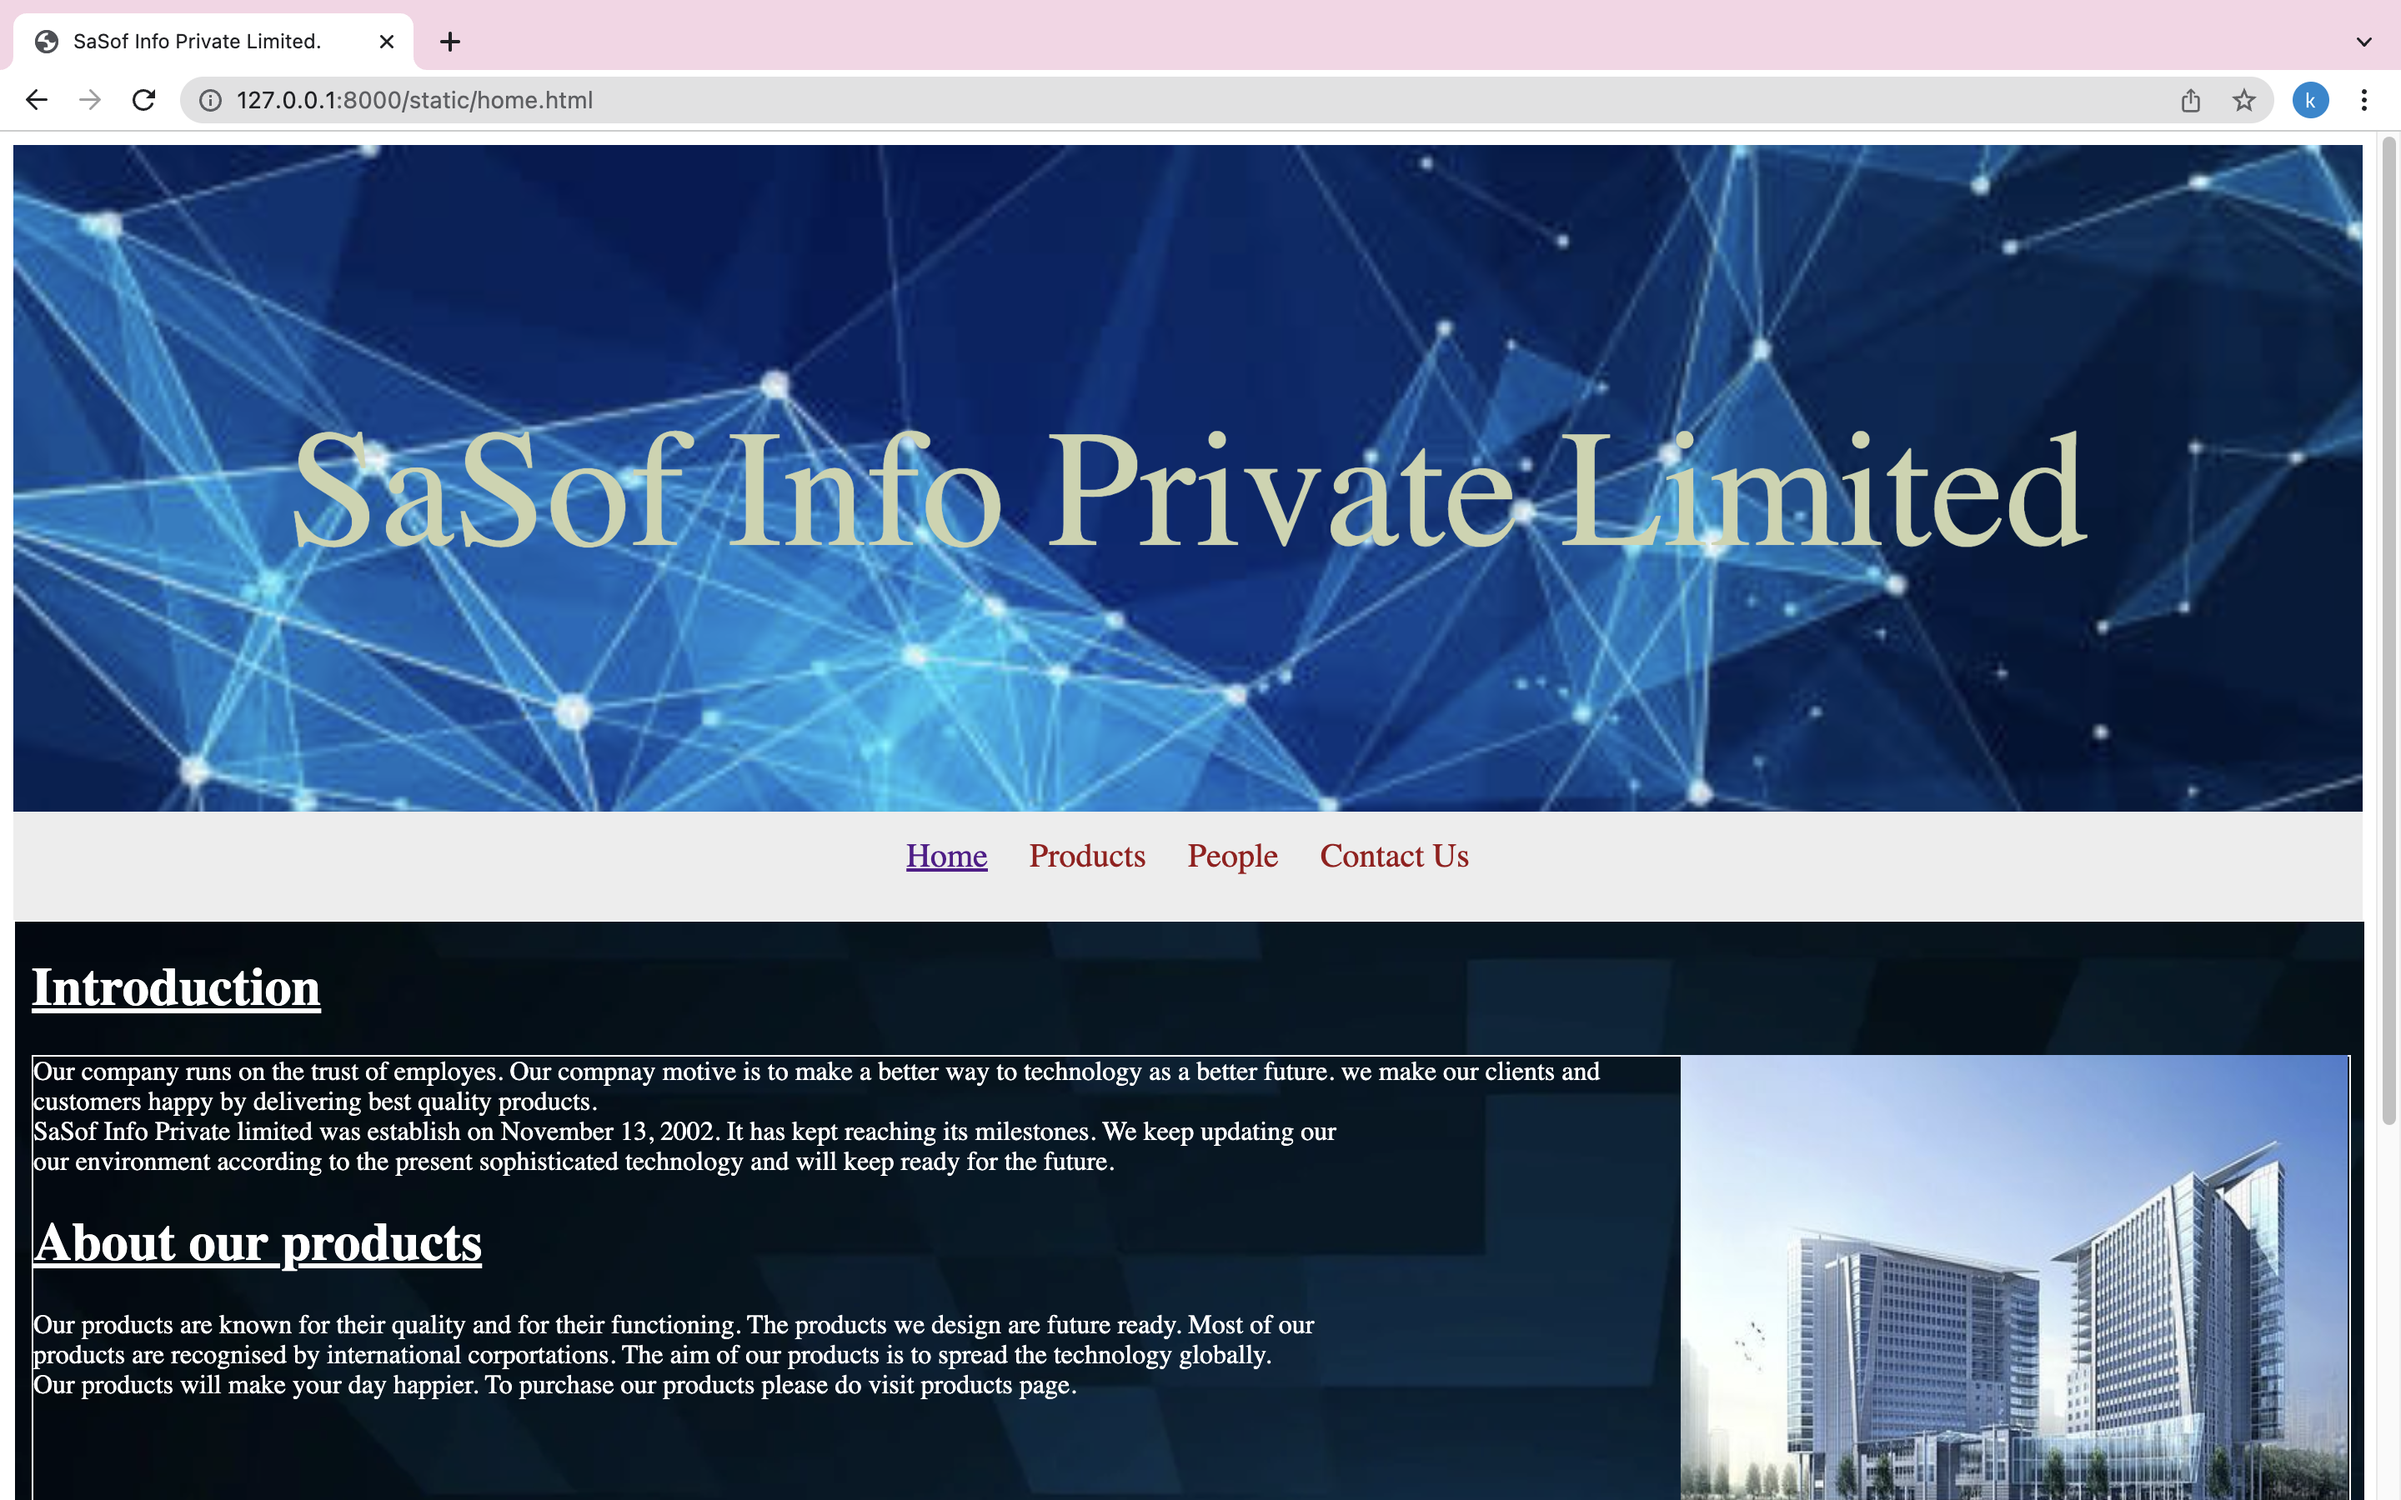
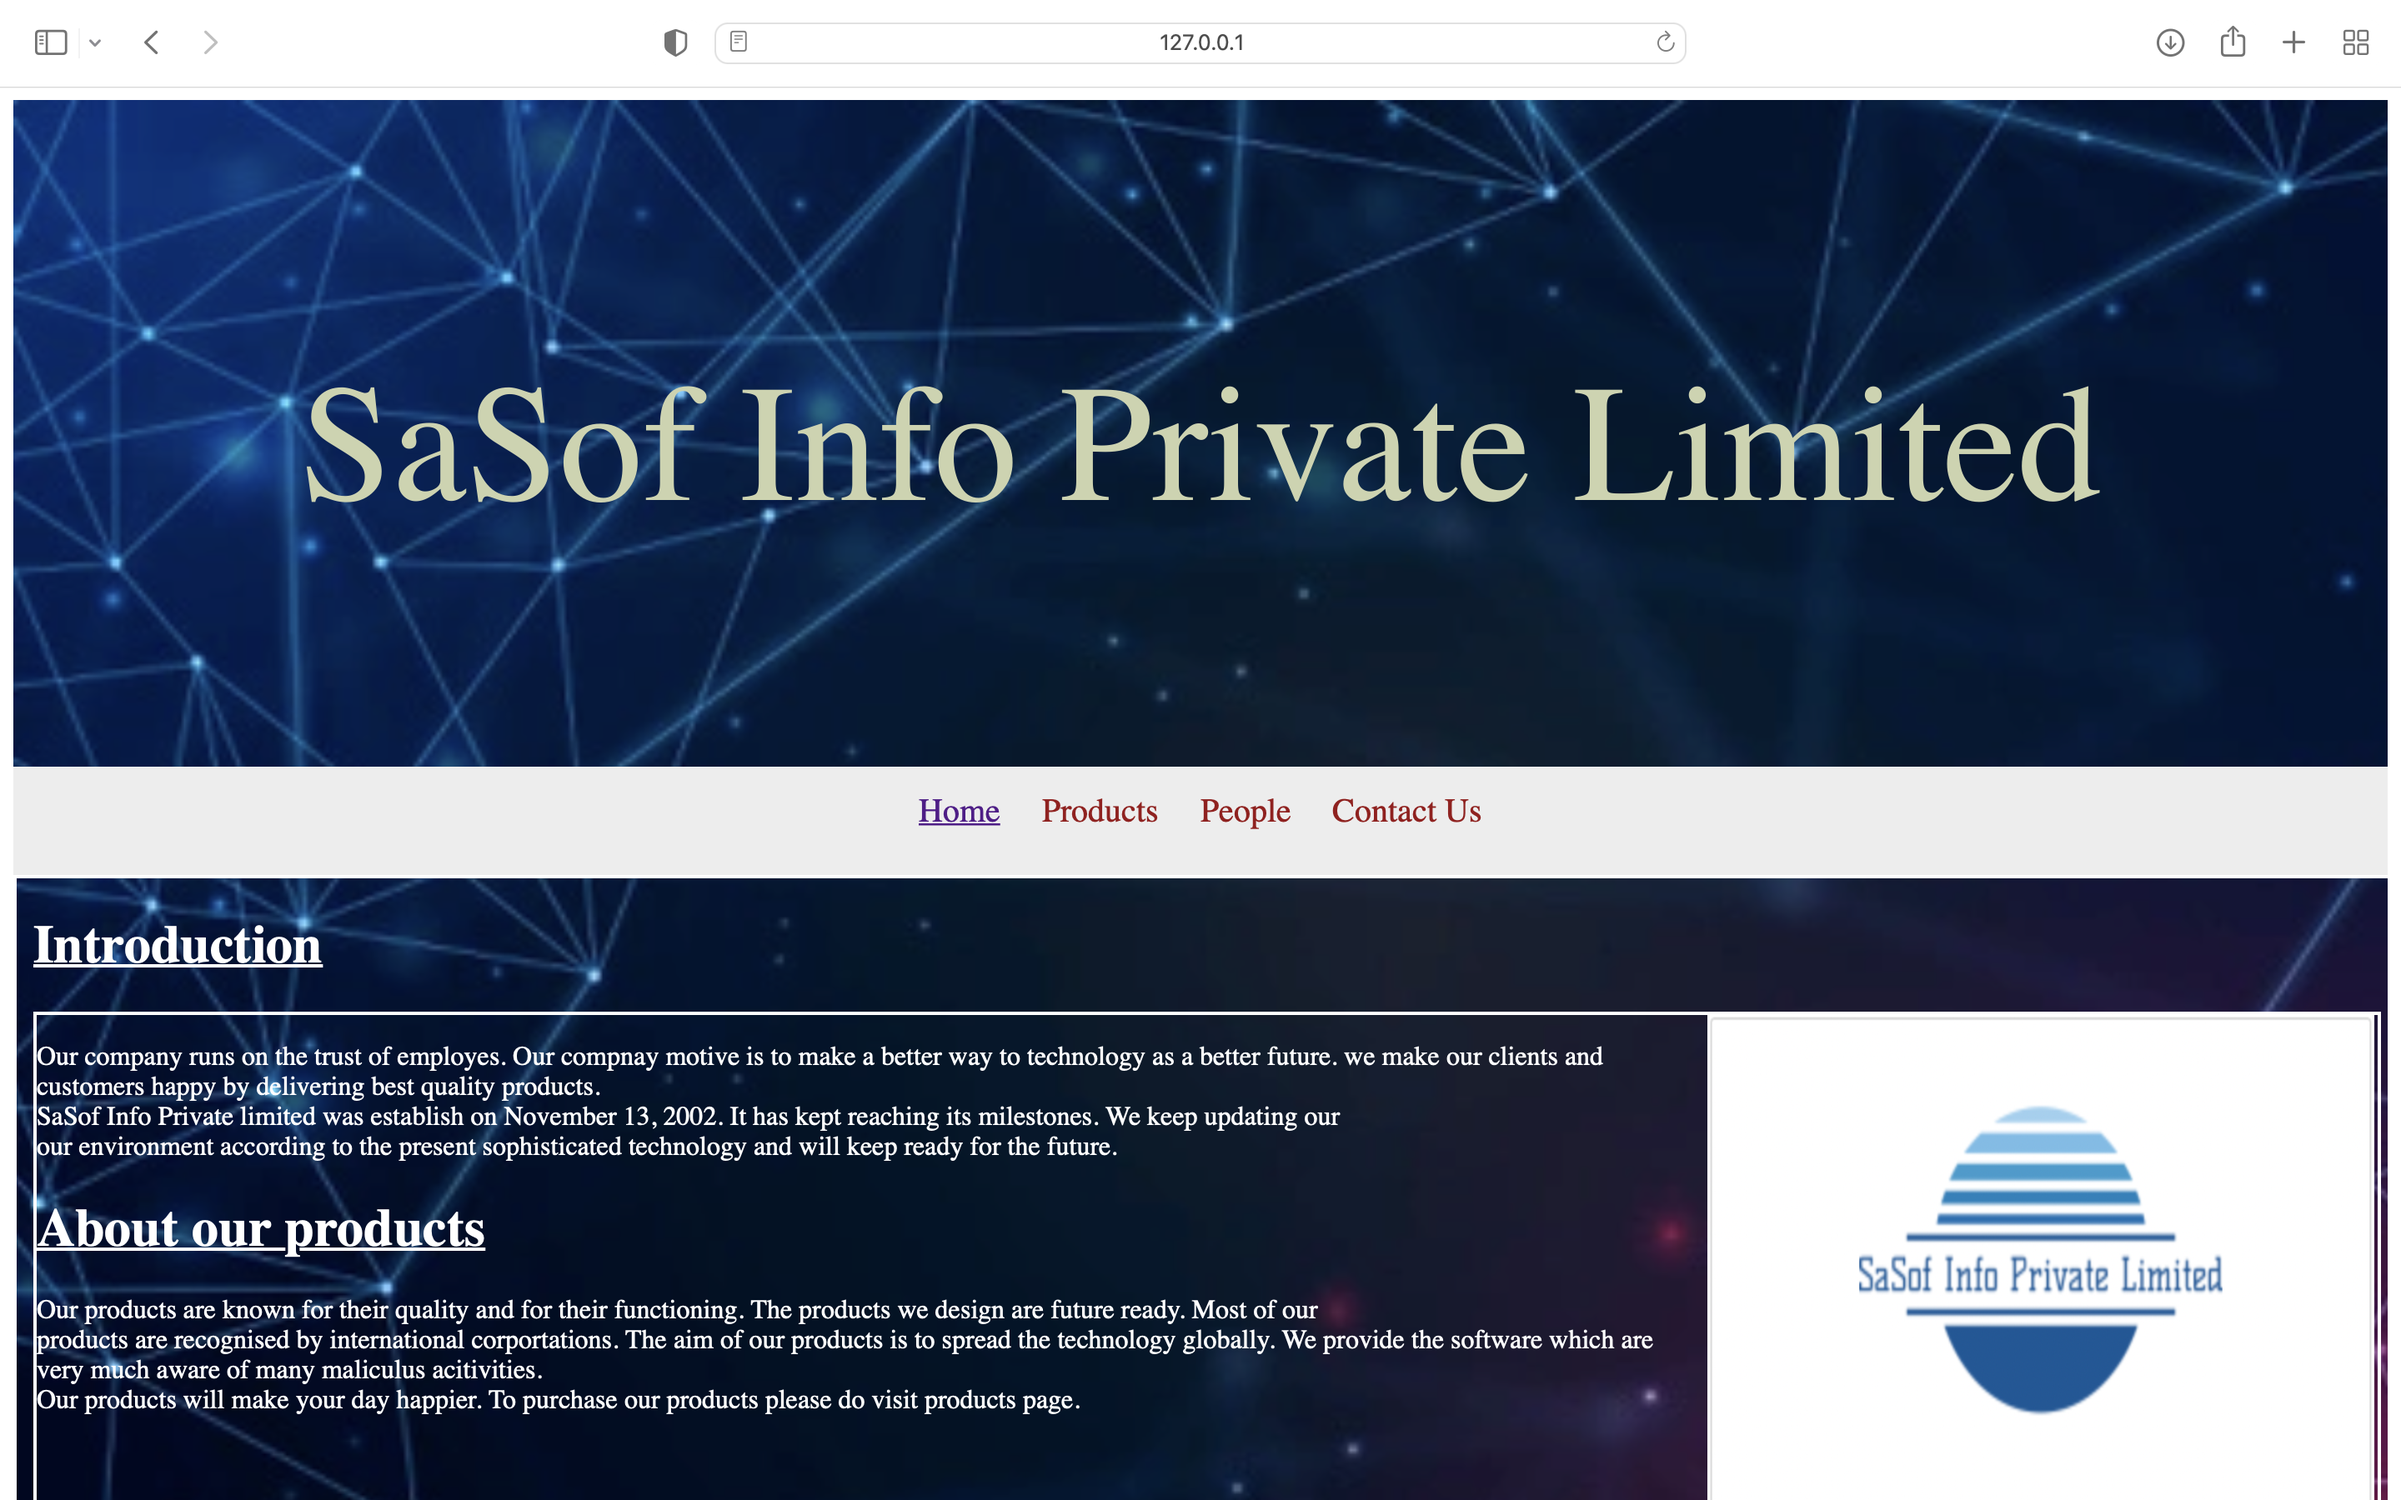
updted images and some text

diff --git a/companywebsite/static/home.html b/companywebsite/static/home.html
@@ -3,8 +3,10 @@
     <head>
         <title>SaSof Info Private Limited.</title>
         <link rel="stylesheet" type="text/css" href="css/company.css">
+        <link rel="icon" type="image/x-icon" href="/static/images/favicon.ico">
     </head>
     <body>
+
         <div class="toppart">
            <div class="banner">SaSof Info Private Limited </div> 
            <div class="menu">
@@ -17,9 +19,11 @@
         <div class="content">
             <div class="homecontent">
                 <h1><b><u>Introduction</u></b></h1>
-                <img src="https://4.imimg.com/data4/BN/JN/MY-9786397/building-design-software-500x500.jpg" alt="building">
+                <p></p>
+                <img src="/static/images/logo.jpeg" alt="building">
                 <div class="content">
-                    Our company runs on the trust of employes. Our compnay motive is to make a better way to technology as a better future.
+                    <p></p>
+                          Our company runs on the trust of employes. Our compnay motive is to make a better way to technology as a better future.
                     we make our clients and customers happy by delivering best quality products. 
                     <br>
                             SaSof Info Private limited was establish on November 13, 2002. It has kept reaching its milestones. We keep updating our <br>
@@ -28,6 +32,7 @@
                     <h1><u><b>About our products</b></u></h1>
                     Our products are known for their quality and for their functioning. The products we design are future ready. Most of our<br>
                     products are recognised by international corportations. The aim of our products is to spread the technology globally.
+                        We provide the software which are very much aware of many maliculus acitivities.
                     <br>
                     Our products will make your day happier. To purchase our products please do visit products page.
                         
@@ -38,7 +43,9 @@
         </div>
         <div class="footer">
             Copyright &#169; 2021 SaSof Info Private Limited, Developed by Koduru Sanath Kumar Reddy.
+            
           </div>
+        </div>
         </div>
       </body>
     </html>

diff --git a/companywebsite/static/css/company.css b/companywebsite/static/css/company.css
@@ -2,10 +2,10 @@
     border-width: 1080px;
     margin-left: auto;
     margin-right: auto;
-    background-image:url("https://media.istockphoto.com/photos/abstract-blue-backgrounds-picture-id1206001151?k=20&m=1206001151&s=612x612&w=0&h=9aEt4WGoWXt0ULB73ycqRxTyvC5v4aRJ7BBVMT7bJ-I=");
+    background-image:url("https://image.freepik.com/free-vector/gradient-network-connection-background_23-2148865392.jpg");
     background-repeat: no-repeat;
     background-size: cover;
-    /*height: 500px;*/
+  
 
 }
 
@@ -61,8 +61,8 @@
     color:white;
     min-height: 500px;
     margin: 0px 0px 0px 0px;
-    border-width: 1px;
-    background-image: url("https://static.vecteezy.com/system/resources/previews/002/275/421/non_2x/the-technology-of-intelligent-operating-system-ai-on-a-dark-blue-background-vector.jpg");
+    border-width: 2px;
+    /*background-image: url("https://image.freepik.com/free-vector/gradient-network-connection-background_23-2148865392.jpg");*/
     background-repeat: no-repeat;
     background-size: conver;
     border-style: solid;
@@ -141,4 +141,7 @@
 .list{
   font-size: 20px;
   font-family: 'Gill Sans', 'Gill Sans MT', Calibri, 'Trebuchet MS', sans-serif;
+}
+.maind{
+  height:100vh;
 }

diff --git a/companywebsite/static/contacts.html b/companywebsite/static/contacts.html
@@ -3,6 +3,7 @@
     <head>
         <title>SaSof Info Private Limited.</title>
         <link rel="stylesheet" type="text/css" href="css/company.css">
+        <link rel="icon" type="image/x-icon" href="/static/images/favicon.ico">
     </head>
     <body>
         <div class="toppart">

diff --git a/companywebsite/static/people.html b/companywebsite/static/people.html
@@ -3,6 +3,7 @@
     <head>
         <title>SaSof Info Private Limited.</title>
         <link rel="stylesheet" type="text/css" href="css/company.css">
+        <link rel="icon" type="image/x-icon" href="/static/images/favicon.ico">
     </head>
     <body>
         <div class="toppart">

diff --git a/companywebsite/static/products.html b/companywebsite/static/products.html
@@ -3,6 +3,7 @@
     <head>
         <title>SaSof Info Private Limited.</title>
         <link rel="stylesheet" type="text/css" href="css/company.css">
+        <link rel="icon" type="image/x-icon" href="/static/images/favicon.ico">
     </head>
     <body>
         <div class="toppart">

diff --git a/README.md b/README.md
@@ -42,8 +42,10 @@ Publish the website in the given URL.
     <head>
         <title>SaSof Info Private Limited.</title>
         <link rel="stylesheet" type="text/css" href="css/company.css">
+        <link rel="icon" type="image/x-icon" href="/static/images/favicon.ico">
     </head>
     <body>
+
         <div class="toppart">
            <div class="banner">SaSof Info Private Limited </div> 
            <div class="menu">
@@ -56,9 +58,11 @@ Publish the website in the given URL.
         <div class="content">
             <div class="homecontent">
                 <h1><b><u>Introduction</u></b></h1>
-                <img src="https://4.imimg.com/data4/BN/JN/MY-9786397/building-design-software-500x500.jpg" alt="building">
+                <p></p>
+                <img src="/static/images/logo.jpeg" alt="building">
                 <div class="content">
-                    Our company runs on the trust of employes. Our compnay motive is to make a better way to technology as a better future.
+                    <p></p>
+                          Our company runs on the trust of employes. Our compnay motive is to make a better way to technology as a better future.
                     we make our clients and customers happy by delivering best quality products. 
                     <br>
                             SaSof Info Private limited was establish on November 13, 2002. It has kept reaching its milestones. We keep updating our <br>
@@ -67,6 +71,7 @@ Publish the website in the given URL.
                     <h1><u><b>About our products</b></u></h1>
                     Our products are known for their quality and for their functioning. The products we design are future ready. Most of our<br>
                     products are recognised by international corportations. The aim of our products is to spread the technology globally.
+                        We provide the software which are very much aware of many maliculus acitivities.
                     <br>
                     Our products will make your day happier. To purchase our products please do visit products page.
                         
@@ -77,7 +82,9 @@ Publish the website in the given URL.
         </div>
         <div class="footer">
             Copyright &#169; 2021 SaSof Info Private Limited, Developed by Koduru Sanath Kumar Reddy.
+            
           </div>
+        </div>
         </div>
       </body>
     </html>
@@ -252,10 +259,10 @@ Publish the website in the given URL.
     border-width: 1080px;
     margin-left: auto;
     margin-right: auto;
-    background-image:url("https://media.istockphoto.com/photos/abstract-blue-backgrounds-picture-id1206001151?k=20&m=1206001151&s=612x612&w=0&h=9aEt4WGoWXt0ULB73ycqRxTyvC5v4aRJ7BBVMT7bJ-I=");
+    background-image:url("https://image.freepik.com/free-vector/gradient-network-connection-background_23-2148865392.jpg");
     background-repeat: no-repeat;
     background-size: cover;
-    /*height: 500px;*/
+  
 
 }
 
@@ -311,8 +318,8 @@ Publish the website in the given URL.
     color:white;
     min-height: 500px;
     margin: 0px 0px 0px 0px;
-    border-width: 1px;
-    background-image: url("https://static.vecteezy.com/system/resources/previews/002/275/421/non_2x/the-technology-of-intelligent-operating-system-ai-on-a-dark-blue-background-vector.jpg");
+    border-width: 2px;
+    /*background-image: url("https://image.freepik.com/free-vector/gradient-network-connection-background_23-2148865392.jpg");*/
     background-repeat: no-repeat;
     background-size: conver;
     border-style: solid;
@@ -393,6 +400,8 @@ Publish the website in the given URL.
   font-family: 'Gill Sans', 'Gill Sans MT', Calibri, 'Trebuchet MS', sans-serif;
 }
 
+
+
 ~~~
 
 ## OUTPUT:
@@ -401,14 +410,17 @@ Publish the website in the given URL.
 ![output](./images/home1.png)
 ![output](./images/home2.png)
 ### Product Page:
-![output](./images/products.png)
+![output](./images/product1.png)
+![output](./images/product1.png)
 
 ### People page:
 
-![output](./images/people.png)
+![output](./images/people1.png)
+![output](./images/people2.png)
 
 ### contact us page:
-![output](./images/contact.png)
+![output](./images/contact1.png)
+![output](./images/contact2.png)
 
 ## Result:
 
